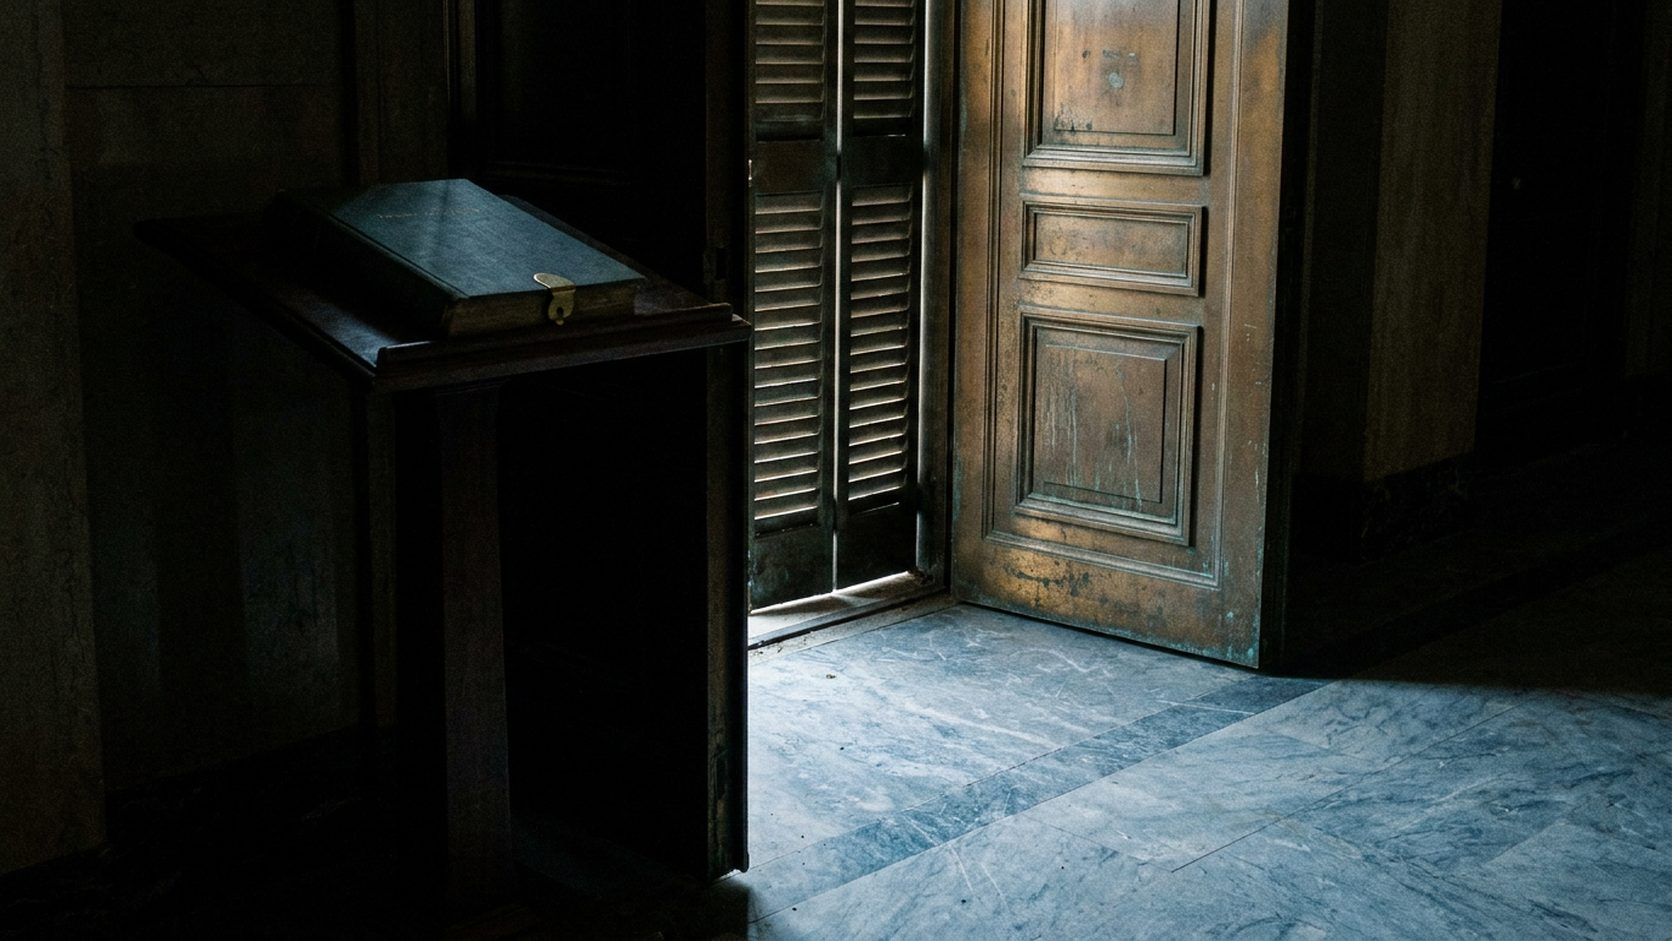
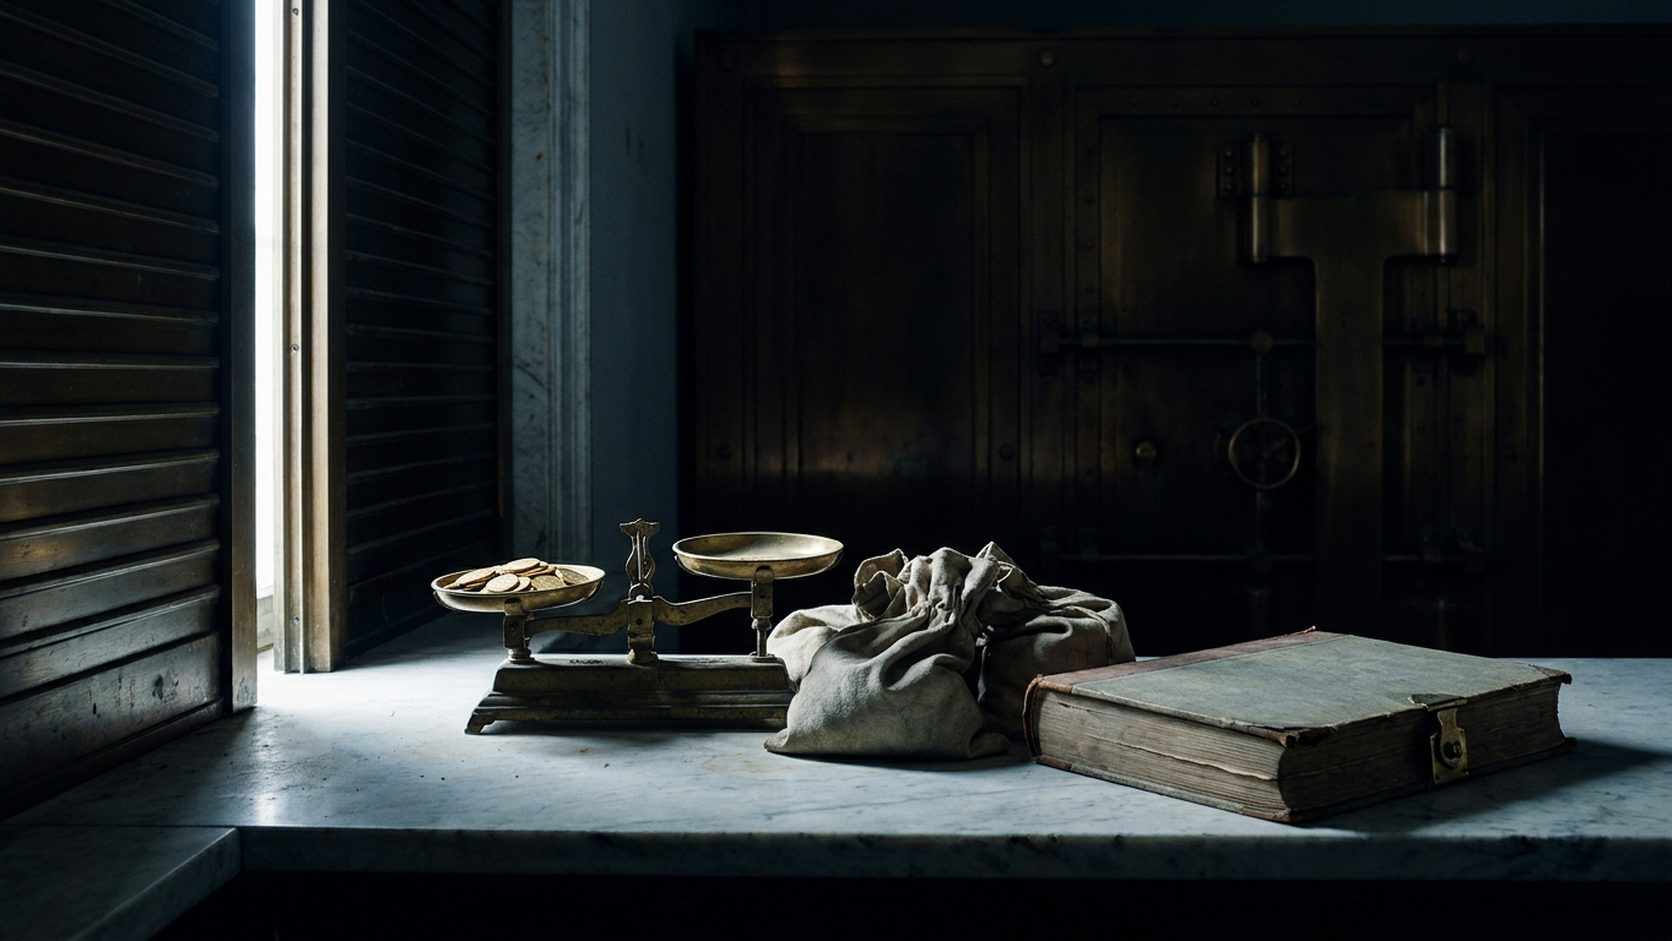
His review, every note closed: the copy stays with the reader, the page walks its palettes, the frame-by-frame eye pass
THE TEXT STAYS (his #1 note — 'disappears too quickly… then just a big white section'):
- Tall-copy (flow) sections REBUILT: sticky with a computed negative top — the copy
  scrolls until its last line shows, then PINS for the rest of the section. It never
  leaves before the section does, and the giant empty tails are gone. Verified pinned
  at 1280x800 AND 2000x1250 (his viewport scale).
- Hold-then-fade retimed .82/.15 -> .88/.09: copy holds to 88%, fully gone by 97% —
  longer on screen AND no half-faded slivers at seams.
- Ministry 140->220vh, the Turn 120->170vh (his 'that text disappears too quickly').
- Reveal softened (14px/blur 4/1.2s, threshold .08) — the pop-in is gone.

THE MIRROR: the tag is now his own phrase — 'the living man or woman' (his note:
'what if it's a woman?').

THE WHITE VOID: dusk falls on the Answer's page over its last quarter — edges first,
a lamp of ivory holding the centre, then night takes the sheet; the seam into the
harbor is dark-to-dark (the Pool site's palette-walk pattern). Measured curve
234->220->117->55->75 where it was 234->black.

THE WALL'S INTRO said plainly (his note; the old line was his affidavit ¶20I verbatim
— noted): 'One word. Eight enacted meanings. When your rights are on the line, you
are entitled to know which one is meant — and you are entitled to ask.'
(data-pending-confirm; gate updated.)

1933 TELLS THE GOLD STORY (his note: the picture had nothing to do with the text):
[…]

diff --git a/index.html b/index.html
@@ -25,10 +25,10 @@ main section:where(:not(#landfall):not(#answer):not(#hall)) .wrap
    were right). The shader scrim is back at its original grade and the universal per-pixel
    scrim is gone; readability now rides a scoped glass panel behind the copy column of each
    dark room, so the plate keeps its light and the type keeps its ground. */
-#waters .wrap,#deep .wrap,#jar .wrap,#harbor .wrap,#christening .wrap,#cargo .wrap,
+#waters .wrap,#deep .wrap,#jar .wrap,#standing .wrap,#harbor .wrap,#christening .wrap,#cargo .wrap,
 #babylon .wrap,#rome .wrap,#church .wrap,
 #cestui .wrap,#labanca .wrap,#ministry .wrap,#study .wrap,#statutes .wrap{
-  background:linear-gradient(180deg,rgba(6,9,16,.55),rgba(6,9,16,.15));
+  background:linear-gradient(180deg,rgba(6,9,16,.55),rgba(6,9,16,.28));
   -webkit-backdrop-filter:blur(9px);backdrop-filter:blur(9px);
   padding:1.6rem 1.8rem;border-radius:6px;
   box-shadow:inset 0 0 0 1px rgba(201,165,92,.10)}
@@ -41,8 +41,9 @@ main section:where(:not(#landfall):not(#answer):not(#hall)) .wrap
   box-shadow:inset 0 0 0 1px rgba(201,165,92,.10)}
 #wall .plaques{margin-top:2.4rem}
 #wall .caption{margin-top:2.2rem}
-/* the 1933 chamber's authority chain rides quiet glass — the cold bar crosses wp4 */
-#gold1933 .thread{background:linear-gradient(180deg,rgba(6,9,16,.45),rgba(6,9,16,.12));
+/* the 1873 + 1933 authority chains ride quiet glass; wide viewports put their small
+   type over bright marble (grok eye-pass 8/24 eve) */
+#chamber1873 .thread,#gold1933 .thread{background:linear-gradient(180deg,rgba(6,9,16,.45),rgba(6,9,16,.12));
   -webkit-backdrop-filter:blur(6px);backdrop-filter:blur(6px);
   padding:.9rem 1.1rem;border-radius:6px}
 /* ── FL-1 · THE MIRROR — the reader's own name in the two registers (ivory room) ── */
@@ -76,12 +77,19 @@ body{margin:0;background:var(--ink);color:var(--ivory);
  font:400 clamp(16px,1.15vw,19px)/1.75 "EB Garamond",Georgia,serif;-webkit-font-smoothing:antialiased}
 #gl{position:fixed;inset:0;z-index:0;display:block}
 #rail{position:fixed;left:0;top:0;height:2px;background:linear-gradient(90deg,var(--gold),#e8cf9a);z-index:40;width:0}
+#railtrack{position:fixed;left:0;top:0;height:2px;width:100%;background:rgba(201,165,92,.14);z-index:39}
 main{position:relative;z-index:1}
 section{display:flex;align-items:center;padding:0 clamp(1.4rem,6vw,7rem);position:relative}
 .wrap{max-width:60rem;width:100%;min-width:0}
 .hold{position:sticky;top:0;height:100vh;display:flex;align-items:center;min-width:0}
-/* set at runtime on any section whose copy is taller than the screen — see fitSections() */
-section.flow > .hold{position:static;height:auto;align-items:flex-start;padding:16vh 0 18vh}
+/* set at runtime on any section whose copy is taller than the screen — see fitSections().
+   ⛔ REBUILT 8/24 EVE on Joseph's review: flow copy used to be position:static, so it
+   scrolled AWAY early and left a huge empty tail ("the text disappears too quickly…then
+   just a big white section"). It now stays sticky with a NEGATIVE top (set per-section by
+   fitSections): the copy scrolls up just far enough to show its last line, then HOLDS for
+   the rest of the section. */
+section.flow > .hold{position:sticky;top:var(--flowtop,0px);height:auto;
+  align-items:flex-start;padding:9vh 0 10vh}
 .kicker{font:400 .9rem/1.8 "JetBrains Mono",monospace;letter-spacing:.24em;text-transform:uppercase;
  color:rgba(219,192,137,.92);margin:0 0 1.4rem}
 h1,h2{font:300 clamp(2rem,5.4vw,4.4rem)/1.02 "Cormorant Garamond",serif;letter-spacing:-.015em;margin:0 0 .2rem}
@@ -97,8 +105,8 @@ p.lead{font-size:clamp(1.15rem,1.7vw,1.5rem);color:rgba(243,236,224,.94);max-wid
  font:400 .86rem/1 "JetBrains Mono",monospace;letter-spacing:.2em;text-transform:uppercase;
  color:var(--ink);background:linear-gradient(180deg,#e6c98d,#c9a55c);text-decoration:none}
 a{color:var(--gold)}
-.reveal>*{opacity:0;transform:translateY(26px);filter:blur(9px);
- transition:opacity .9s cubic-bezier(.22,.61,.36,1),transform .9s cubic-bezier(.22,.61,.36,1),filter .9s}
+.reveal>*{opacity:0;transform:translateY(14px);filter:blur(4px);
+ transition:opacity 1.2s cubic-bezier(.22,.61,.36,1),transform 1.2s cubic-bezier(.22,.61,.36,1),filter 1.2s}
 .reveal.on>*{opacity:1;transform:none;filter:none}
 .reveal.on>*:nth-child(2){transition-delay:.10s}.reveal.on>*:nth-child(3){transition-delay:.20s}
 .reveal.on>*:nth-child(4){transition-delay:.30s}.reveal.on>*:nth-child(5){transition-delay:.40s}
@@ -182,7 +190,7 @@ footer{position:relative;z-index:1;padding:5rem clamp(1.4rem,6vw,7rem) 4rem;
     on ivory (measured 1.01:1 before the 8/24 audit caught it) */
 /* ── the 1873 chamber: engraved stone, gilding = verification ── */
 .tablet{display:flex;flex-wrap:wrap;align-items:stretch;gap:0;margin:.6rem 0 0;max-width:56rem}
-.tablet-half{flex:1 1 18rem;min-width:0;background:linear-gradient(175deg,rgba(214,207,196,.10),rgba(214,207,196,.035));
+.tablet-half{flex:1 1 18rem;min-width:0;background:linear-gradient(175deg,rgba(214,207,196,.10),rgba(214,207,196,.035)),linear-gradient(rgba(8,11,19,.55),rgba(8,11,19,.55));
  border:1px solid rgba(214,207,196,.14);padding:1.5rem 1.7rem}
 .tablet-half p{font:300 clamp(1.15rem,2vw,1.7rem)/1.35 "Cormorant Garamond",serif;
  letter-spacing:.04em;color:#d9d2c4;margin:0;max-width:none;
@@ -190,7 +198,7 @@ footer{position:relative;z-index:1;padding:5rem clamp(1.4rem,6vw,7rem) 4rem;
 .tablet-crack{width:3px;background:linear-gradient(180deg,transparent,rgba(12,17,29,.9) 12%,rgba(12,17,29,.9) 88%,transparent);
  transform:rotate(1.6deg);margin:0 -1px;box-shadow:0 0 14px 2px rgba(0,0,0,.6)}
 .plaques{display:grid;grid-template-columns:repeat(auto-fit,minmax(min(13rem,100%),1fr));gap:.7rem;margin-top:1.6rem;max-width:56rem}
-.plaque{text-align:left;background:rgba(8,11,19,.72);backdrop-filter:blur(3px);
+.plaque{text-align:left;background:rgba(8,11,19,.82);backdrop-filter:blur(3px);
   border:1px solid rgba(125,133,155,.28);
  padding:.9rem 1rem;cursor:pointer;transition:border-color .9s,background .9s;font:inherit;color:inherit}
 .plaque .pl-name{display:block;font:400 .88rem/1.7 "JetBrains Mono",monospace;letter-spacing:.16em;
@@ -258,7 +266,7 @@ footer{position:relative;z-index:1;padding:5rem clamp(1.4rem,6vw,7rem) 4rem;
 @media (prefers-reduced-motion:reduce){#rain,#rainskip{display:none}}
 </style></head><body>
 <canvas id="rain"></canvas><button id="rainskip">Skip</button>
-<div id="rail"></div><canvas id="gl"></canvas>
+<div id="railtrack"></div><div id="rail"></div><canvas id="gl"></canvas>
 <div id="hint">Scroll</div><button id="skip" title="Skip the seal">Skip</button>
 <main>
 
@@ -443,7 +451,7 @@ footer{position:relative;z-index:1;padding:5rem clamp(1.4rem,6vw,7rem) 4rem;
         spellcheck="false" aria-label="Type your name. Nothing is stored or sent.">
       <div id="mirrorOut" hidden>
         <div class="m-row m-vessel"><span class="m-name" id="mVessel"></span><span class="m-tag">the record</span></div>
-        <div class="m-row m-man"><span class="m-name" id="mMan"></span><span class="m-tag">the man</span></div>
+        <div class="m-row m-man"><span class="m-name" id="mMan"></span><span class="m-tag">the living man or woman</span></div>
         <p class="caption" data-pending-confirm style="margin-top:1rem">One of these was created
           after your birth. Only one of them is alive.</p>
       </div>
@@ -660,7 +668,7 @@ footer{position:relative;z-index:1;padding:5rem clamp(1.4rem,6vw,7rem) 4rem;
 <!-- V·b · THE MINISTRY BEAT — three lines, the third gilds in.
      ⚠ data-pending-confirm: exact canonical wording awaits Joseph (lives on his socials);
      placed per the 8/17 decision: the ministry turn before the Door/CTA. -->
-<section id="ministry" style="height:140vh;align-items:flex-start">
+<section id="ministry" style="height:220vh;align-items:flex-start">
   <div class="still" style="background-image:url(assets/plate-ministry.jpg)"></div>
   <div class="hold"><div class="wrap reveal">
     <p class="kicker">The Ministry</p>
@@ -767,9 +775,12 @@ footer{position:relative;z-index:1;padding:5rem clamp(1.4rem,6vw,7rem) 4rem;
   <div class="still" style="background-image:url(assets/plate-wall.jpg)"></div>
   <div class="hold"><div class="wrap reveal" style="max-width:72rem">
     <p class="kicker">The Language Wall · eight definitions of one word</p>
-    <p class="quote" style="max-width:40ch">I contend that a word bearing seven meanings is capable of being
-    applied to the wrong one; that where my rights are at stake I am entitled to know
-    which is meant; and that I am entitled to ask.</p>
+    <!-- 8/24 eve, his review: "say it more simply and plainly." The affidavit's ¶20I
+         sentence (which this replaced) reads as sworn prose; the display now says the same
+         thing plainly. ⚠ data-pending-confirm — the plain wording is his to bless. -->
+    <p class="quote" style="max-width:40ch" data-pending-confirm>One word. Eight enacted
+    meanings. When your rights are on the line, you are entitled to know which one is
+    meant &mdash; and you are entitled to ask.</p>
     <div class="plaques tiles">
       <div class="plaque"><span class="pl-name">1 U.S.C. § 1</span>
         <span class="pl-quote">"the words 'person' and 'whoever' include corporations, companies, associations, firms, partnerships, societies, and joint stock companies, as well as individuals."</span>
@@ -812,7 +823,7 @@ footer{position:relative;z-index:1;padding:5rem clamp(1.4rem,6vw,7rem) 4rem;
 </section>
 
 <!-- V·f · THE STATUTES TURN — from system to remedy, his teaching voice -->
-<section id="statutes" style="height:120vh;align-items:flex-start">
+<section id="statutes" style="height:170vh;align-items:flex-start">
   <div class="still" style="background-image:url(assets/plate-statutes.jpg)"></div>
   <div class="hold"><div class="wrap reveal">
     <p class="kicker">The Turn</p>
@@ -1374,7 +1385,7 @@ vec3 actStanding(vec2 uv, float p){
   float flower = smoothstep(.56,.78,p);                            /* two more rings — nineteen circles */
   float solid  = smoothstep(.78,.97,p);                            /* the pattern becomes matter */
   float R = .19;
-  vec2 ctr = vec2(.5,.46);
+  vec2 ctr = vec2(.60,.46);   /* right of the copy column (8/24 eve: the glow was washing the words) */
   vec2 c1 = ctr - vec2(R*.5*draw,0.), c2 = ctr + vec2(R*.5*draw,0.);
   float d1 = distance(uv*asp, c1*asp), d2 = distance(uv*asp, c2*asp);
   vec3 col = vec3(.005,.007,.011);
@@ -1472,6 +1483,16 @@ vec3 actLand(vec2 uv, float p){
   col *= 1.-smoothstep(.28,1.25,distance(uv,sun))*(.07+.20*p);
   col *= mix(vec3(1.0,1.0,1.0), vec3(1.012,.998,.978), p);          /* the ivory warms toward the hall */
   col *= 1.-.035*p;                                                  /* and settles a touch */
+  /* DUSK FALLS ON THE PAGE (8/24 eve, his review: white cut straight to black — jarring).
+     Over the act's last quarter the daylight leaves the paper: the edges go first, the
+     centre holds a lamp of ivory, then night takes the sheet — so the seam into the dark
+     harbor is dark-to-dark, the way the Pool site walks its palettes across. */
+  vec2 o=uv-.5;
+  float dusk  = smoothstep(.76,.985,p);
+  float ring  = smoothstep(.06,.62,length(o));
+  float night = clamp(dusk*(.30+.85*ring) + smoothstep(.93,1.,p)*.75, 0., 1.);
+  col = mix(col, vec3(.030,.038,.058)*(0.85+.30*pap), night);
+  col += vec3(1.,.86,.60)*exp(-length(o-vec2(.06,-.14))*3.2)*dusk*(1.-night)*.10;  /* the last of the light, warm */
   return col;
 }
 
@@ -1599,13 +1620,14 @@ vec3 actPaper(vec2 uv, float p){
     vec2 sun = vec2(.14+.20*p, .34-.10*p);
     col += vec3(1.,.96,.86)*smoothstep(.95,.0,distance(cuv,sun))*.08;
     col = mix(col, col*1.05+vec3(.030,.028,.022), far*.35);   /* distance opens, never murks */
-  } else if(uGrade==11){                                /* 1933 — the shuttered bank: one cold bar creeps */
+  } else if(uGrade==11){                                /* 1933 — the bank at dawn: the cold bar finds the coins
+       (plate v2, the scale-and-coins take; light measured at .22,.43) */
     vec3 g = vec3(dot(col,vec3(.299,.587,.114)));
-    col = mix(col, g*vec3(.90,.95,1.06), .32);
-    col += shaft(tCham, cuv, vec2(.26+.16*p,.20), .36)*vec3(.95,.97,1.0);
-    col += vec3(1.,.88,.58)*smoothstep(.22,.0,distance(cuv,vec2(.55,.34)))*.05;   /* the clasp */
-    col = mix(col, col*vec3(.66,.70,.80)+vec3(.010,.012,.017), far*.58);
-    col *= .92;
+    col = mix(col, g*vec3(.90,.95,1.06), .28);
+    col += shaft(tCham, cuv, vec2(.16+.14*p,.46), .36)*vec3(.96,.97,1.0);
+    col += vec3(1.,.86,.52)*smoothstep(.20,.0,distance(cuv,vec2(.22,.43)))*.07;   /* the gold takes the light */
+    col = mix(col, col*vec3(.66,.70,.80)+vec3(.010,.012,.017), far*.55);
+    col *= .94;
   } else {                                              /* the Turn — a closed door, one cold blade */
     vec3 g = vec3(dot(col,vec3(.299,.587,.114)));
     col = mix(col, g*vec3(.88,.93,1.08), .40);
@@ -1812,7 +1834,16 @@ function fitSections(){
     const wrap = sec.querySelector(".wrap");
     if (!wrap) continue;
     sec.classList.remove("flow");
-    if (wrap.scrollHeight > innerHeight * 0.86) sec.classList.add("flow");
+    const hold = sec.querySelector(".hold");
+    if (hold) hold.style.removeProperty("--flowtop");
+    if (wrap.scrollHeight > innerHeight * 0.86){
+      sec.classList.add("flow");
+      /* sticky with a negative top: the copy scrolls until its last line is on screen
+         (with an 8vh breath), then PINS for the rest of the section — it never leaves
+         the reader before the section does */
+      const over = (hold ? hold.scrollHeight : wrap.scrollHeight) - innerHeight;
+      if (hold) hold.style.setProperty("--flowtop", (-Math.max(0, over + innerHeight*0.02)) + "px");
+    }
   }
   buildActs();
 }
@@ -1824,7 +1855,10 @@ if (document.fonts && document.fonts.ready) document.fonts.ready.then(fitSection
    last ~15% — no reader is ever mid-paragraph while a movement hands off. Flow sections
    (copy taller than the screen) scroll naturally and are left alone, as are sections whose
    pin span is zero. The fade rides the wrap so the reveal's per-child entrance still wins. */
-const FADE_START=.82, FADE_SPAN=.15;
+/* .88/.12 (was .82/.15) — his 8/24 eve review: "the text disappears too quickly."
+   Copy now holds to 88% of its section and is gone only at the very seam. Flow sections
+   are included — since the sticky-bottom pin they hold like everything else. */
+const FADE_START=.88, FADE_SPAN=.09;   /* fully gone by 97% — no half-faded slivers at the seam */
 let FADE_SECS=[];
 function buildFadeSecs(){
   FADE_SECS=[...document.querySelectorAll("main section")]
@@ -1835,7 +1869,6 @@ buildFadeSecs();
 addEventListener("resize", buildFadeSecs);
 function fadeCopy(){
   for (const {sec,w} of FADE_SECS){
-    if (sec.classList.contains("flow")){ if(w.style.opacity) w.style.opacity=""; continue; }
     const span = sec.offsetHeight - innerHeight;
     if (span<=0){ if(w.style.opacity) w.style.opacity=""; continue; }
     const local = (scrollY - sec.offsetTop)/span;
@@ -1846,7 +1879,7 @@ function fadeCopy(){
 }
 
 const io = new IntersectionObserver(es=>es.forEach(e=>{ if(e.isIntersecting) e.target.classList.add("on"); }),
-  {threshold:.18});
+  {threshold:.08});
 document.querySelectorAll(".reveal").forEach(el=>io.observe(el));
 
 /* INSPECT — a dissent plaque gilds when touched; gold is earned, never ambient */
